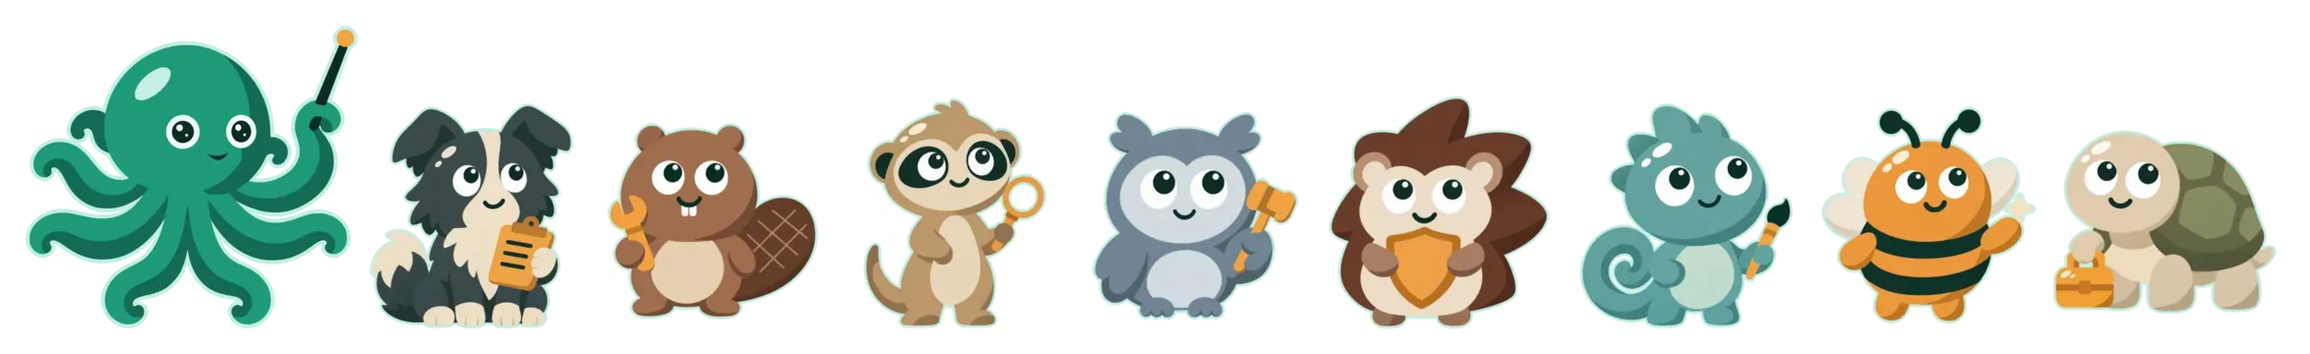
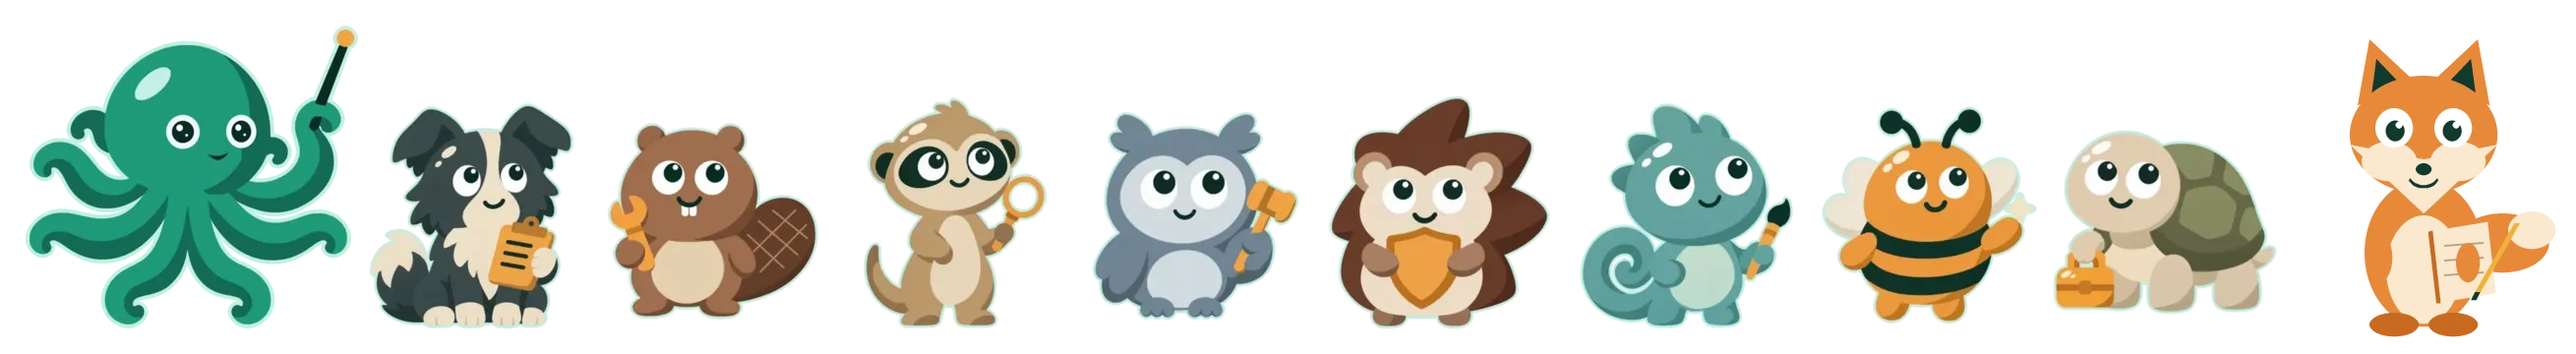
feat(team): add a Technical writer character after the Maintainer in the team strip

diff --git a/docs/design/mocks/team.html b/docs/design/mocks/team.html
@@ -113,6 +113,7 @@
     <div class="role"><h3>Designer</h3><p>Joins when a task changes what people see.</p><p class="meta"><span>Model L</span><span>Work subscription</span></p></div>
     <div class="role"><h3>Security engineer</h3><p>Reviews anything touching secrets, logins or protected files.</p><p class="meta"><span>Model L</span><span>Overflow key</span></p></div>
     <div class="role"><h3>Maintainer</h3><p>Hands stalled work over, resolves conflicts and re-queues tasks.</p><p class="meta"><span>Model S</span><span>Overflow key</span></p></div>
+    <div class="role"><h3>Technical writer</h3><p>Joins when a change touches the pages people read and checks that a reader can follow them.</p><p class="meta"><span>Model M</span><span>Work subscription</span></p></div>
   </div>
 </aside>
 </div>

diff --git a/tests/Application/ReadmeTeamPictureTest.php b/tests/Application/ReadmeTeamPictureTest.php
@@ -10,20 +10,20 @@ use PHPUnit\Framework\TestCase;
 #[CoversNothing]
 final class ReadmeTeamPictureTest extends TestCase
 {
-    private const array ROLES = ['Tech lead', 'Developer', 'Code reviewer', 'Judge', 'Security engineer', 'Designer', 'AI engineer', 'Maintainer'];
+    private const array ROLES = ['Tech lead', 'Developer', 'Code reviewer', 'Judge', 'Security engineer', 'Designer', 'AI engineer', 'Maintainer', 'Technical writer'];
 
     public function testTheTeamPictureServesTheDarkImageForADarkColorScheme(): void
     {
         $picture = $this->picture();
 
-        self::assertSame(1, preg_match('/<source media="\(prefers-color-scheme: dark\)" srcset="docs\/assets\/team-dark\.webp" width="760" height="116">/', $picture));
+        self::assertSame(1, preg_match('/<source media="\(prefers-color-scheme: dark\)" srcset="docs\/assets\/team-dark\.webp" width="760" height="104">/', $picture));
         self::assertFileExists($this->root().'/docs/assets/team-dark.webp');
     }
 
     // One sharp file per theme, shown at 760 px: phones that skip a srcset would otherwise stretch a 760 px file and blur it.
     public function testTheTeamPictureDimensionsMatchTheImageFilesTheyDescribe(): void
     {
-        foreach (['light' => 113, 'dark' => 116] as $theme => $height) {
+        foreach (['light' => 101, 'dark' => 104] as $theme => $height) {
             $image = getimagesize($this->root().'/docs/assets/team-'.$theme.'.webp');
 
             self::assertIsArray($image);
@@ -41,7 +41,7 @@ final class ReadmeTeamPictureTest extends TestCase
         self::assertFileExists($this->root().'/docs/assets/team-light.webp');
     }
 
-    public function testTheTeamPictureAltNamesTheOctopusAndAllEightRoles(): void
+    public function testTheTeamPictureAltNamesTheOctopusAndAllNineRoles(): void
     {
         $alt = $this->imgAttribute('alt');
 
@@ -75,7 +75,7 @@ final class ReadmeTeamPictureTest extends TestCase
         self::assertIsInt($screenshot, 'The README shows the review page on its first screen.');
         $picture = (int) strpos($readme, '<picture>', $screenshot);
         $release = (int) strpos($readme, '## Status');
-        $line = 'Tech lead, Developer, Code reviewer, Judge, Security engineer, Designer, AI engineer and Maintainer';
+        $line = 'Tech lead, Developer, Code reviewer, Judge, Security engineer, Designer, AI engineer, Maintainer and Technical writer';
 
         self::assertGreaterThan($screenshot, $picture);
         self::assertLessThan($release, $picture);

diff --git a/docs/architecture/dashboard.md b/docs/architecture/dashboard.md
@@ -79,4 +79,4 @@ Plan task T20, parts 1 to 3 (design: [Dashboard](../design/05-architecture/13-da
 - **The drop reason on the review page (#2278, part 3 of #2215, decision D1 in part):** `RoundPayloads::droppedOf()` reads the `dropped` entries of a `judge_done` row one by one into the Review module's `Contract/DroppedFinding` (an unreadable entry is left out; a row without the key reads with none), and `judgeOf()` leaves `dropped` unread beside `findings`, so a bad drop entry never un-judges the round. `LedgerRounds` maps each into a `Domain/RoundFinding` whose `droppedBecause` is the reason and whose `quotes` is the Review contract's `CountedQuotes::of()` of its text (a `QuotesCounted`, the quotes the quote check counted, in its order, so as many as the reason names; #3171, part 2 of #3144; `LedgerReviewPages` passes its `CountedQuotes` in), and sets the list with `ReviewedRound::withDropped()` on a judged round, so the live judged update (`MercureRoundUpdates`, which renders the same `ReviewedRound`) carries it too. `_judged_round.html.twig` lists them after the judged cards as `<li data-finding="<id>" data-dropped="<id>">` (the `data-finding` lets `finding-highlight.js` and `task-panes.js` reach a dropped card from a finding id, as they reach a judged one) with the severity chip, the text (autoescaped, through `_finding_card_text.html.twig` as on a judged card: the headline as the title, the whole text below it when it goes on), the place, `p.fc-call` "Quote not found in the code" and a closed `details.fc-quotes` ("Quoted code") holding `ul.fc-quote-list` with one `<code>` per counted quote, under each the changed lines the row recorded for it as `ul.fc-near-lines` (one item per line, `span.fc-near-place` `<file>:<line>` in mono and the line's text in `<code>`, autoescaped; the list is left out when the row recorded no line for the quote, as for a row written before `DroppedFinding::$nearest` existed; `LedgerRounds` passes `$nearest` into `RoundFinding`, whose `nearLinesOf()` finds the entry whose recorded `quote` equals the counted quote with `array_find()`, so a repeated quote shows its lines each time and the page never reads the change; a quote whose recorded form differs from the counted one, because the recording redacted it (the quote is kept whole, never cut), shows no lines; the lines are styled as an indented list taking the whole row), and `p.fc-unchecked` "File names, numbers and suggested-fix blocks are not checked." (both only when the check counted a quote) and `p.fc-reason` `Dropped before the judge: <reason>` (all autoescaped; the template never reads the quotes from the text itself, neither through `finding_spans()` nor otherwise; `assets/styles/components.css` styles the summary as a link-colored control with the shared chevron, at least 44 px tall at 760 px wide or narrower, and the quotes as wrapping code chips that keep a quote's line breaks and indentation, `white-space: pre-wrap`; the demo recording's captured judged update holds the same row, see [Demo recording](demo-recording.md)); a dropped finding is not in `findings`, so it is not counted in `ReviewSummary`'s finding count, and a round with only dropped findings no longer reads "The reviewers reported no findings". Tests: `LedgerRoundsTest`, `JudgedRoundFindingsPageTest`, and `MergedActEntryPageTest`, which runs a round through `ReviewChange` with a finding quoting an absent name (shown as dropped with its reason) and one with only an absent symbol (judged).
 - **A judged round's findings as cards (#2254, part 2 of #2202, decisions D3 and D4):** `_judged_round.html.twig` (which `_round_body.html.twig` includes, and the judged round's live update renders, see above) lists a judged round's findings as `ul.finding-cards` (one grid column, no `.table-scroll` box) of `li.finding-card`, each keeping `id="round-<id>-finding-<finding id>"` and `data-finding` (every id of the entry, separated by spaces) for the state block's links and the highlight: a `.sev` chip (the severity, or `Severity not recorded`), `p.fc-title` and, only when the text goes on after its headline (`RoundFinding::goesOnAfterItsHeadline()`), `p.fc-detail` (both from `_finding_card_text.html.twig`: the title is the finding's own id in `.fc-id`, then `.fc-text`, which holds `RoundFinding::headline()` read into spans by `finding_spans`, or `Text not recorded.` when the headline is null; `p.fc-detail` holds the whole text through `_finding_text.html.twig`), `p.fc-place` (`RoundFinding::place()`, `file:line` in mono, the file alone without a line, or `File and line not recorded`), `p.fc-merged` (only on an entry that merged others: `Also reported as` and their ids) and `p.fc-call` (`callInWords()`). `RoundFinding::headline()` trims the text with a Unicode-aware pattern (`[\s\p{Z}]`, so a no-break space or an em space counts as white space) and returns null for a text that is missing, blank or not valid UTF-8; otherwise it finds the closed code spans on the whole text as `FindingText` does (a run of backticks closed by a run of as many, across lines too), and cuts at the first line break or sentence mark (`.`, `!` or `?` followed by white space or the end) outside them, so `` Keep `Ready? yes` as the prompt. More. `` gives `` Keep `Ready? yes` as the prompt. `` and a dot in a name (`src/A.php`, `1.5`) never ends it; an unclosed backtick is a plain character, white space before a cut line break is dropped, and a text with no such cut is its own headline. The text comes from `_finding_text.html.twig`, which the state block's open findings share: it renders `FindingText::spans()` (through the `finding_spans` Twig function, so the session summary's findings, which are the Review module's `Finding`, read backticks the same way), the text split into plain and code spans (a span opens with a run of backticks and closes on a run of as many, as in Markdown, so a span opened by two backticks may hold one; the backticks are dropped and the code trimmed; a run of backticks that closes nothing makes the word after it, up to the next space or backtick, a code span, and is dropped when no word follows, so no backtick is left), the bold and italic marks (`**x**`, `__x__`, `*x*`, `_x_`) around words in the plain spans left out and never in a code span (an opening mark follows the start, a space, a bracket or a quote, curly quotes included, and a closing one precedes the end, a space, a bracket, a quote, a dash (`-`, or an en or em dash, U+2013 or U+2014, so `**read**-only` reads as `read-only`) or a run of punctuation such as `...`, and a closing mark followed by punctuation pairs only when a space, the end, a bracket, a quote, a dash or a code span follows the punctuation, so comma-separated globs such as `*.php,*.twig` keep their stars (only while the list does not end in a star: in `*.php,build*` the first and the last star pair, so it reads as `.php,build`, and written in backticks, `` `*.php,build*` ``, it is a code span that keeps both), `**wrong**,it` stays as written and `**wrong**, it` reads as `wrong, it`; the text between holds no mark of its own character and no blank line, of any length, so `max_retry_count`, `2 * 3`, `src/**/x`, `(*.php|*.twig)`, a star in each of two paragraphs and a lone dunder such as `__DIR__` or `__init_subclass__` keep their marks; a blank line counts with any line ending, `\n`, `\r\n` or a bare `\r`; a mark followed by `/`, or a closing one preceded by `/`, never pairs (so `**ignore paths under /tmp/**` keeps its marks unless the path is written in backticks), and a single mark followed by `.` pairs only around one word, so `*.env*` reads as `.env` while `*.php` and `src/*` keep their stars even in one line, and a double mark followed by `.` pairs around any words, so `**.env stays private**` loses its marks; and `*.*` keeps both stars; limits: `*test.php and build*` in one paragraph still pairs, and so does a star before a dash, since a dash may follow a closing mark, so `Match *-test.php and build*-old.` reads as `Match -test.php and build-old.`; a code span holding a blank line parts two paragraphs too, also when the blank line sits at the span's edge (the span is trimmed only after the marks are read) or is written with the Unicode separators U+2028, U+2029 or U+0085, while a mark right before or after a code span (`` `foo`*bar* ``, `` **x**`y` ``) pairs as after a space; the patterns run twice, so emphasis nested one level deep (`*_both_*`, `*outer _inner_ words*`, `**outer *inner* words**`) loses all its marks; an ellipsis never stands in for a missing closing mark, so `Copy *.php…` and `Match **kwargs…` stay as written on a card, in the Now box, in the session summary and in the live log, while a pair closed right before an ellipsis still loses its marks, so `*Retry*…` reads as `Retry…`), each code span in `<code>` with Twig's escaping, never `raw`. The live log reads the emphasis on the complete first line and cuts afterwards: `ReadFinding::$title` holds the whole first line, and `answer_read.stream.html.twig` renders it through the `finding_title_spans` Twig function (`FindingSpans::ofATitle()`, `FindingText::spansCutTo(160)`), which reads the spans of the whole line and, when their visible text is longer than 160 characters, keeps the first 159 (by characters, a code span cut like the plain text), drops the spaces at the end and adds `…`, so a cut never leaves a mark and a cut `*Test.php` keeps its star. Both partials render the spans through `_finding_spans.html.twig`. `components.css` gives a card the `--raised` background and `overflow-wrap: anywhere`, a code span the `--tint` background, and at 760 px and below wraps the card so its body takes the full width under the chip. Tests: `FindingTextTest` (the spans, a double-backtick span, no empty span, an unmatched backtick before a word and before a space, runs of different lengths, no text; the emphasis cases: bold, italic and underscore marks, marks around code and in code, a closing mark right before a dash, a closing mark before punctuation with and without a space after it (`**wrong**,it`, `**wrong**, it`, `*.php,*.twig`, `*Test.php,*Case.php`), code-like text with a dash after a mark, emphasis ending in a slash, words, arithmetic, paths, dunders, globs, curly quotes, `**.env**`, `**.env stays private**`, long emphasis, paragraphs with each line ending, `*.*`, nested emphasis (`*_both_*`, `_*both*_`, `*outer _inner_ words*`, `**outer *inner* words**`, `__outer *inner* words__`), stars around a code span holding a blank line, one at its edge and Unicode separators, a mark touching a code span from outside, an ellipsis the reviewer wrote, `*Retry*…`, linear time on many unclosed marks, a glob star before a dash pairing with a later star (the known limit), a comma-separated list ending in a star losing both stars and keeping them in backticks; the cut: a text within the limit, one character over it, a cut at each offset around a closing `**`, `__` and `*`, inside multiword emphasis, just after an opening `**`, inside a code span and of multibyte characters, and a glob cut or before the cut keeping its star), `FindingSpansTest` (the `finding_title_spans` Twig function, as the container registers it, dropping emphasis marks and cutting a long title to 160 characters with `…`, and `finding_spans` returning a backtick span as code), `ReadAnswerTest` (a long first line kept whole, a first line ending at `\r\n`, `\n` or a bare `\r`), `ReviewPageLiveUpdatesTest` (a title cut at each offset around its closing mark, a long title naming a glob, and a written ellipsis, on the live log line), `RoundFindingTest` (each place; the headline: the first sentence, a mark inside a code span of one or two backticks, a closed span with no mark after it or a second line below, a span crossing a line, an unclosed backtick, white space before a line break, a long first sentence, Unicode white space, no text and invalid UTF-8; whether the text goes on), `JudgedRoundFindingsPageTest` (a card's chip, id and text, place and call; the headline as the title with the whole text below it, no text below a one-sentence title, `Text not recorded.` for a text of Unicode white space; code spans as code with no backtick left and markup escaped; an unmatched backtick; markup in text and code staying text; each drop reason; a finding without a file; the anchor; no table; the state block's code spans), `TaskDetailStylesTest` (the column of cards, the selected card, the phone rule).
 - Tests: `tests/Core/Dashboard/` has a functional test per page (the ledger in the test container is a double; `ShowReviewControllerTest` covers a two-round review with several reviewers, findings with ids, the judge's call and tokens), `StartReviewControllerTest` (the button dispatches `StartReview` once and redirects to a toast naming the round number and no round id, with no line above the page, and a refused start shows no toast, the page carries the number after the latest round and a stale page sends the number it showed, a missing or wrong token or a missing number dispatches nothing, `RoundNotNext` gives an error line, a failure that is no `ReportableFailure` gives the server error page, no recorded repository gives no button, the label "Start round N", only Stop shown, with the start form behind the in-review marker, with a running reviewer, before any reviewer and after every reviewer finished unjudged, and only "Start round N" once judged), `ReviewPageLiveUpdatesTest` (every reviewer finished unjudged keeps the marker and Stop, a judged round removes both and shows the start), `TaskDetailStylesTest` (the hiding rule), `NoPollingTest` (a list page the hub cannot authorize a listener for holds two scripts, the inline theme and shell scripts, and no script file, module, `http-equiv`, timer, `fetch(` or event source; the review page with the start button no `http-equiv`, timer or `fetch(`), `ShowBoardControllerTest` (`/` is the board with Waiting on you, In review and Done and one Coming next line without a control naming the other six columns, review cards in In review and Done with their project, link, round, reviewers and cost, true counts, every empty column's `BoardColumn::emptyLine()` once a review has run and no empty line in a column with a card, Waiting on you pinned first as the only `col-needs` column with its empty line and a 0 count without amber, a link to the review list, and refuses a foreign host), `TemplateRouteNamesTest` (no template spells a `dashboard_` route name; links take it from `DashboardRoutes`), `FailedReviewerPageTest` (a round run through `ReviewChange` with a scripted vendor that stops one reviewer at the output limit: the page shows it `failed` with `stopped at its output limit`, the outcome `intakt:review` reports, and no class name), `LedgerReviewsTest`, `LedgerRoundsTest` (also the outcome under each case: a failed reviewer beside an approval or a changes verdict, outvoted under `majority`, an unstarted reviewer, an unjudged round, a start without or with an unknown `quorum`) and `ReviewerStopsTest` for rows in today's format, older rows and the skipped payloads, `LedgerFailingHeadsTest` for which failure lines make a card and `RefuseForeignHostTest` for the hosts each page refuses and answers. For the start path: `tests/Plugin/LocalGitForge/StartReviewHandlerTest.php` (no wait for the judge, the expected number passed on, a relative repository recorded absolute, a refused round leaves no snapshot, a start without a source refused), `RemoveKeptSnapshotTest.php` in the same folder (a kept snapshot is removed, the user's checkout and a command's own snapshot are left alone, a failed removal is logged), `DiscardQueuedRoundHandlerTest.php` (the kept snapshot of a rolled-back round is removed, the user's checkout is left alone) and the `RoundJudged` tests in `tests/Core/Review/UseCase/JudgeRound/JudgeRoundTest.php` (announced once, not again for a round judged already).
-- **README team picture (#2412, part 3 of #2345):** `README.md` shows `docs/assets/team-light.webp` (`team-dark.webp` for `prefers-color-scheme: dark`) in a `<picture>` below the "Found and fixed upstream" section, just before "The first release", 760 px wide with its height set, each theme from its one sharp file (at least 2,280 px wide; a 760 px copy is not kept, because phone browsers that skip `srcset` stretched it and blurred the characters; the dark source carries its own height of 116 because its file is slightly taller), `loading="lazy"` and an `alt` naming the octopus and the eight roles; one line under it names the roles in order. It is decoration beside unchanged text. `tests/Application/ReadmeTeamPictureTest.php` checks the markup.
+- **README team picture (#2412, part 3 of #2345):** `README.md` shows `docs/assets/team-light.webp` (`team-dark.webp` for `prefers-color-scheme: dark`) in a `<picture>` below the "Found and fixed upstream" section, just before "The first release", 760 px wide with its height set, each theme from its one sharp file (at least 2,280 px wide; a 760 px copy is not kept, because phone browsers that skip `srcset` stretched it and blurred the characters; the dark source carries its own height of 104 because its file is slightly taller), `loading="lazy"` and an `alt` naming the octopus and the nine roles; one line under it names the roles in order. It is decoration beside unchanged text. `tests/Application/ReadmeTeamPictureTest.php` checks the markup.

diff --git a/README.md b/README.md
@@ -59,11 +59,11 @@ Building Intakt led to 12 fixes (11 pull requests) merged upstream in Symfony, S
 
 <p align="center">
   <picture>
-    <source media="(prefers-color-scheme: dark)" srcset="docs/assets/team-dark.webp" width="760" height="116">
-    <img src="docs/assets/team-light.webp" alt="The Intakt team: the octopus conductor with a baton, then the Tech lead, Developer, Code reviewer, Judge, Security engineer, Designer, AI engineer and Maintainer, each drawn as an animal with its tool" width="760" height="113" loading="lazy">
+    <source media="(prefers-color-scheme: dark)" srcset="docs/assets/team-dark.webp" width="760" height="104">
+    <img src="docs/assets/team-light.webp" alt="The Intakt team: the octopus conductor with a baton, then the Tech lead, Developer, Code reviewer, Judge, Security engineer, Designer, AI engineer, Maintainer and Technical writer, each drawn as an animal with its tool" width="760" height="101" loading="lazy">
   </picture>
   <br>
-  The octopus conducts: Tech lead, Developer, Code reviewer, Judge, Security engineer, Designer, AI engineer and Maintainer, in that order.
+  The octopus conducts: Tech lead, Developer, Code reviewer, Judge, Security engineer, Designer, AI engineer, Maintainer and Technical writer, in that order.
 </p>
 
 ## Status

diff --git a/docs/reference/user-manual.md b/docs/reference/user-manual.md
@@ -6,7 +6,7 @@ For owners who run Intakt. Each feature gets a page here, written in the same ch
 
 Intakt runs on PHP 8.5.12 or later and Symfony 8.2, which is a beta until 8.2.0 is released: an install holds Symfony 8.2.0-BETA2, locked before it was 3 days old by the owner's one-time exception ([The release cooldown for dependencies](#the-release-cooldown-for-dependencies)).
 
-The [README](../../README.md) opens with a picture of the whole team: the octopus conducts, then the Tech lead, Developer, Code reviewer, Judge, Security engineer, Designer, AI engineer and Maintainer, in that order. It follows your light or dark color scheme and is decoration only.
+The [README](../../README.md) opens with a picture of the whole team: the octopus conducts, then the Tech lead, Developer, Code reviewer, Judge, Security engineer, Designer, AI engineer, Maintainer and Technical writer, in that order. It follows your light or dark color scheme and is decoration only.
 
 The path from a clone to a first verdict, in order:
 
